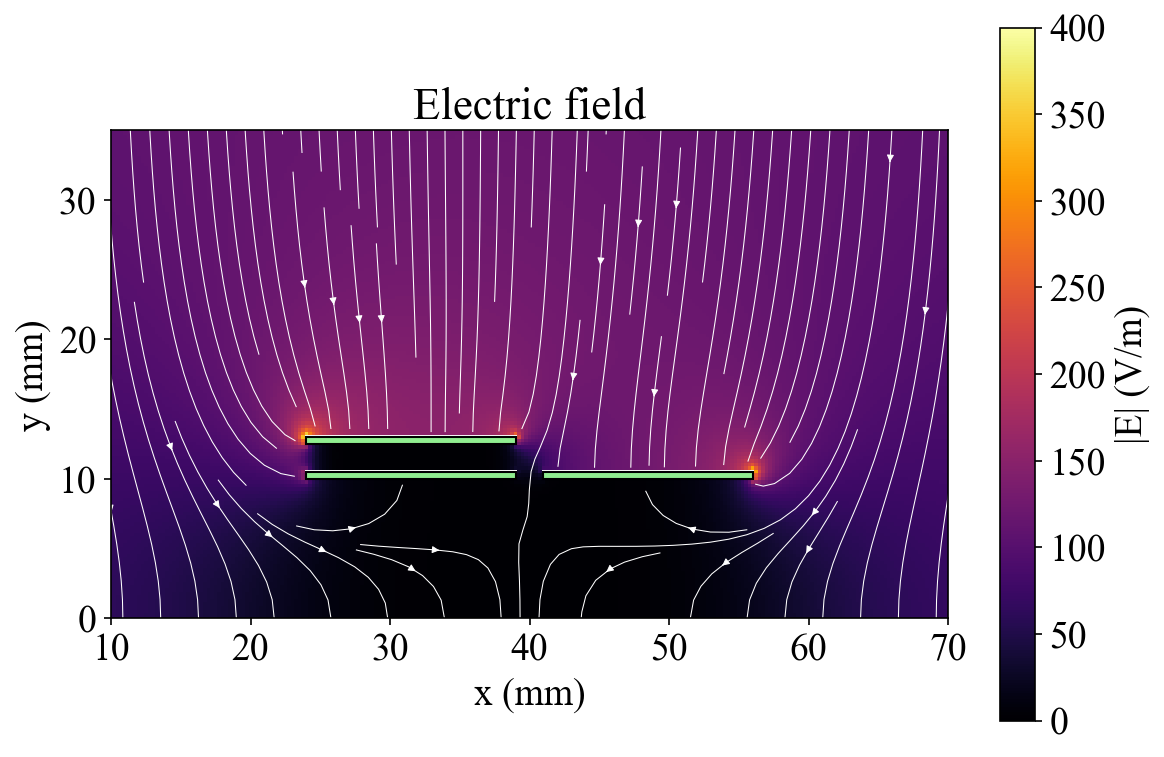
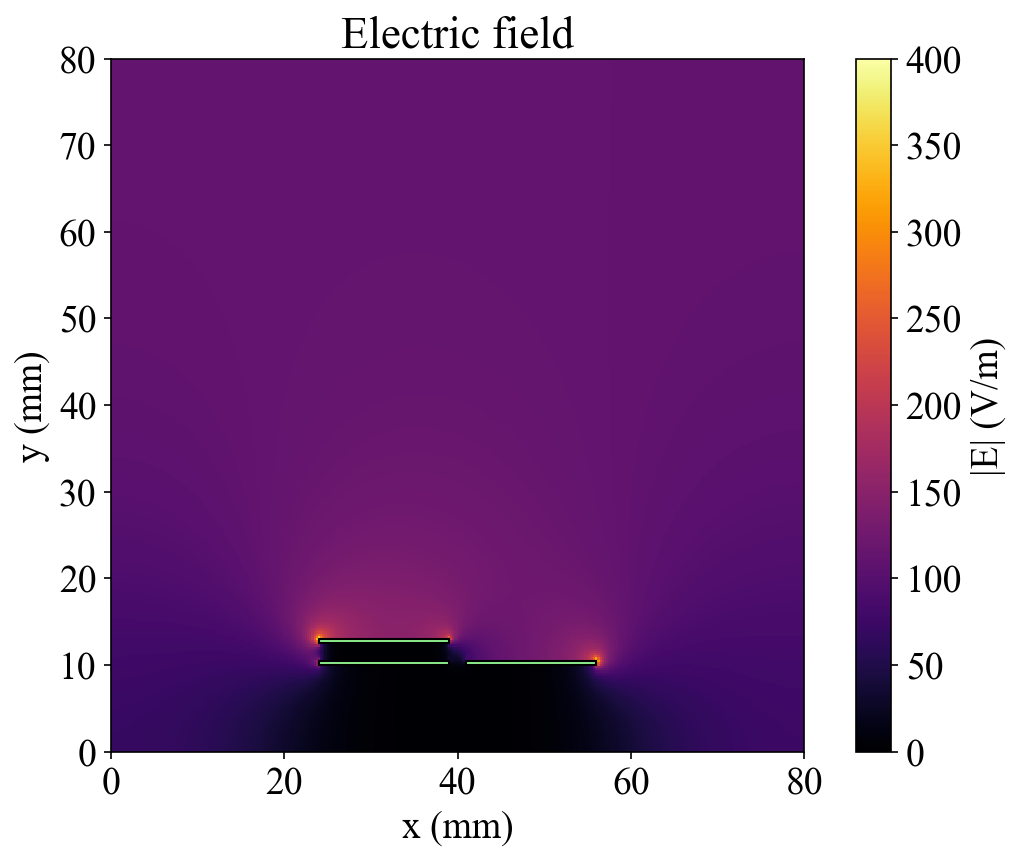
field fixed

diff --git a/project1/run.py b/project1/run.py
@@ -10,8 +10,8 @@ import matplotlib.pyplot as plt
 
 
 # Grid spacing
-dx = 0.25e-3  # 0.25 mm
-dy = 0.25e-3  # 0.25 mm
+dx = 0.25e-3  
+dy = 0.25e-3  
 
 # Physical and electrical parameters
 E0 = 100.0  # V/m
@@ -20,8 +20,8 @@ Rf = 1e6  # ohm
 v = 1e-3  # m/s
 
 # Domain size
-domain_width = 80e-3  # 80 mm
-domain_height = 80e-3  # 80 mm
+domain_width = 80e-3  
+domain_height = 80e-3 
 
 # Sensing plates
 plate_length = 15e-3
@@ -33,7 +33,6 @@ yp0 = plate_height
 yp1 = yp0 + plate_thickness
 pair_length = 2 * plate_length + plate_gap
 
-# Centre the plate pair in x, on a grid line
 x_pair_left = round(0.5 * (domain_width - pair_length) / dx) * dx
 
 plate1_x0 = x_pair_left
@@ -41,7 +40,7 @@ plate1_x1 = plate1_x0 + plate_length
 plate2_x0 = plate1_x1 + plate_gap
 plate2_x1 = plate2_x0 + plate_length
 
-# Shutter (same length as a plate)
+# Shutter 
 shutter_length = plate_length
 shutter_thickness = 0.5e-3
 shutter_plate_gap = 2e-3
@@ -49,12 +48,12 @@ shutter_plate_gap = 2e-3
 ys0 = yp1 + shutter_plate_gap
 ys1 = ys0 + shutter_thickness
 
-# Shutter positions, one grid cell per step
+# Shutter positions
 s_start = plate1_x0
 s_end = plate2_x1 - shutter_length
 Ns = round((s_end - s_start) / dx) + 1
 
-# Shutter position used now: the first one (covers Plate 1)
+# Shutter position 
 s = s_start
 
 # Grid
@@ -64,7 +63,7 @@ x = np.arange(number_of_x_points) * dx
 y = np.arange(number_of_y_points) * dy
 X, Y = np.meshgrid(x, y)
 
-# Top boundary voltage gives a far-field of E0
+# Top boundary 
 top_voltage = E0 * domain_height
 
 # Build the geometry
@@ -103,25 +102,24 @@ print("Equation for node [50, 0]  (left wall):         ", geometry.equation_row(
 # Plots
 geometry.plot_geometry()
 
-# Potential array: grey = unknown, coloured = fixed. Zoomed on the plates.
+
 geometry.plot_potential(filename="potential_with_geo.png")
 phi = geometry.solve()
 geometry.plot_potential(phi, filename="potential_solved.png")
 
-# Electric field from the solved potential, zoomed on the plates
-Ex, Ey = geometry.electric_field(phi)
-geometry.plot_field(phi, xlim=(0, 50), ylim=(0, 25), filename="field.png")
 
-# Check: how many nodes does each conductor own?
+Ex, Ey = geometry.electric_field(phi)
+geometry.plot_field(phi, xlim=(0, 80), ylim=(0, 80), filename="field.png")
+
+
 for name, mask in geometry.masks.items():
     print(name, mask.sum(), "nodes")
 
-# Charge on each conductor (per unit depth, times the plate depth w_out)
+# Charge on each conductor 
 eps0 = 8.8541878128e-12
-Q_ideal = eps0 * E0 * w_out * plate_length
 for name in geometry.masks:
     Q = geometry.charge(phi, name) * w_out
-    print(f"{name}: Q = {Q:.3e} C   ({Q / Q_ideal:.2f} x ideal)")
+    print(f"{name}: Q = {Q:.3e} C")
 
 # Neutrality check: all charges together must add up to zero
 Q_base = geometry.boundary_charge(phi, 0) * w_out

diff --git a/project1/functions.py b/project1/functions.py
@@ -168,7 +168,7 @@ class Geometry:
         only own half a cell, so they count half.
         """
         eps0 = 8.8541878128e-12
-        inside = 1 if row == 0 else -2          # the row of nodes just inside the domain
+        inside = 1 if row == 0 else -2          
         weights = np.ones(phi.shape[1])
         weights[0] = weights[-1] = 0.5
         return eps0 * np.sum(weights * (phi[row, :] - phi[inside, :]))
@@ -263,10 +263,10 @@ class Geometry:
         plt.show()
 
     def plot_field(self, phi, xlim=None, ylim=None, filename=None):
-        """Plot |E| as colour, with field lines. xlim, ylim in millimetres."""
+        """Plot |E|. xlim, ylim in millimetres."""
         Ex, Ey = self.electric_field(phi)
         magnitude = np.hypot(Ex, Ey)
-        E0 = self.potential[-1, 0] / self.Y[-1, 0]   # applied field, V/m
+        E0 = self.potential[-1, 0] / self.Y[-1, 0]   
 
         x = self.X[0, :] * 1000
         y = self.Y[:, 0] * 1000
@@ -278,10 +278,6 @@ class Geometry:
         )
         fig.colorbar(mesh, ax=ax, label="|E| (V/m)")
 
-        ax.streamplot(
-            x, y, np.ma.masked_invalid(Ex), np.ma.masked_invalid(Ey),
-            color="white", density=2, linewidth=0.5, arrowsize=0.7,
-        )
 
         for r in self.rectangles:
             ax.add_patch(Rectangle(
